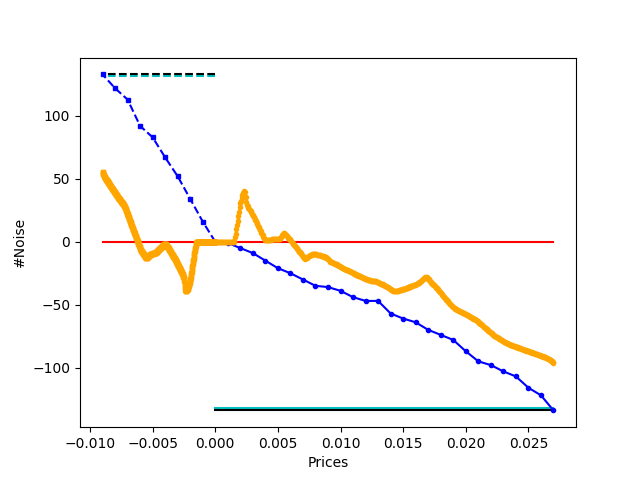
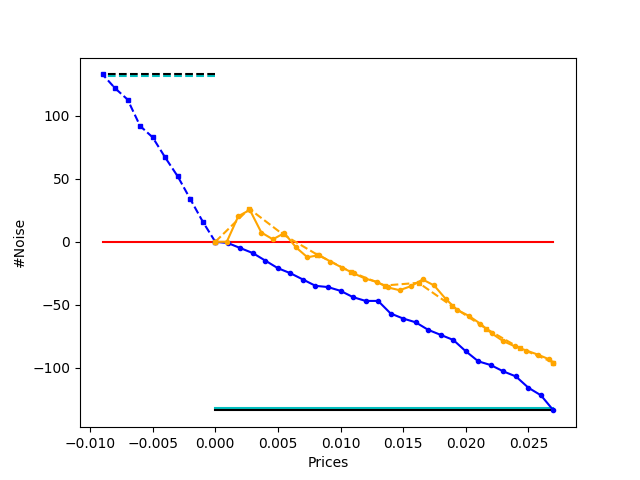
xx

Changed region(s): [[0.1562, 0.3438, 0.5312, 0.625], [0.5312, 0.5625, 0.875, 0.75]]

diff --git a/core.py b/core.py
@@ -2112,13 +2112,13 @@ class MyModel(object):
 
             # result_list.append(interpolated_noises[0])
 
-            fake_start_price, fake_end_price = fake_price_list[0], fake_price_list[-1]
-            fake_interpolated_prices = np.linspace(fake_start_price, fake_end_price, batch_size)
-            # self.reset_states_parallel(states_list=states_list)
-            fake_interpolated_noises = self.predict_parallel(fake_interpolated_prices, states_list=states_list)
+            # fake_start_price, fake_end_price = fake_price_list[0], fake_price_list[-1]
+            # fake_interpolated_prices = np.linspace(fake_start_price, fake_end_price, batch_size)
+            # # self.reset_states_parallel(states_list=states_list)
+            # fake_interpolated_noises = self.predict_parallel(fake_interpolated_prices, states_list=states_list)
 
-            # fake_interpolated_prices = interpolated_prices
-            # fake_interpolated_noises = interpolated_noises
+            fake_interpolated_prices = interpolated_prices
+            fake_interpolated_noises = interpolated_noises
             # NOTE: correct here, don't change
             states_list = [o[i] for o in operator_outputs]
 
@@ -2127,17 +2127,17 @@ class MyModel(object):
                            fake_B2, fake_B3, _B1, _B2, _B3)
 
             # import ipdb; ipdb.set_trace()
-            # fake_size = fake_price_list.shape[-1]
-            # fake_interpolated_prices_ = fake_interpolated_prices[::batch_size//fake_size]
-            # fake_interpolated_noises_ = fake_interpolated_noises[::batch_size//fake_size]
-            # fake_interpolated_prices = np.hstack([fake_interpolated_prices_, fake_interpolated_prices[-1]])
-            # fake_interpolated_noises = np.hstack([fake_interpolated_noises_, fake_interpolated_noises[-1]])
+            fake_size = fake_price_list.shape[-1]
+            fake_interpolated_prices_ = fake_interpolated_prices[::batch_size//fake_size]
+            fake_interpolated_noises_ = fake_interpolated_noises[::batch_size//fake_size]
+            fake_interpolated_prices = np.hstack([fake_interpolated_prices_, fake_interpolated_prices[-1]])
+            fake_interpolated_noises = np.hstack([fake_interpolated_noises_, fake_interpolated_noises[-1]])
 
-            # size = price_list.shape[-1]
-            # interpolated_prices_ = interpolated_prices[::batch_size//size]
-            # interpolated_noises_ = interpolated_noises[::batch_size//size]
-            # interpolated_prices = np.hstack([interpolated_prices_, interpolated_prices[-1]])
-            # interpolated_noises = np.hstack([interpolated_noises_, interpolated_noises[-1]])
+            size = price_list.shape[-1]
+            interpolated_prices_ = interpolated_prices[::batch_size//size]
+            interpolated_noises_ = interpolated_noises[::batch_size//size]
+            interpolated_prices = np.hstack([interpolated_prices_, interpolated_prices[-1]])
+            interpolated_noises = np.hstack([interpolated_noises_, interpolated_noises[-1]])
 
             self._plot_interpolated(ax1, fake_interpolated_prices, fake_interpolated_noises,
                                     interpolated_prices, interpolated_noises, fake_B1,
